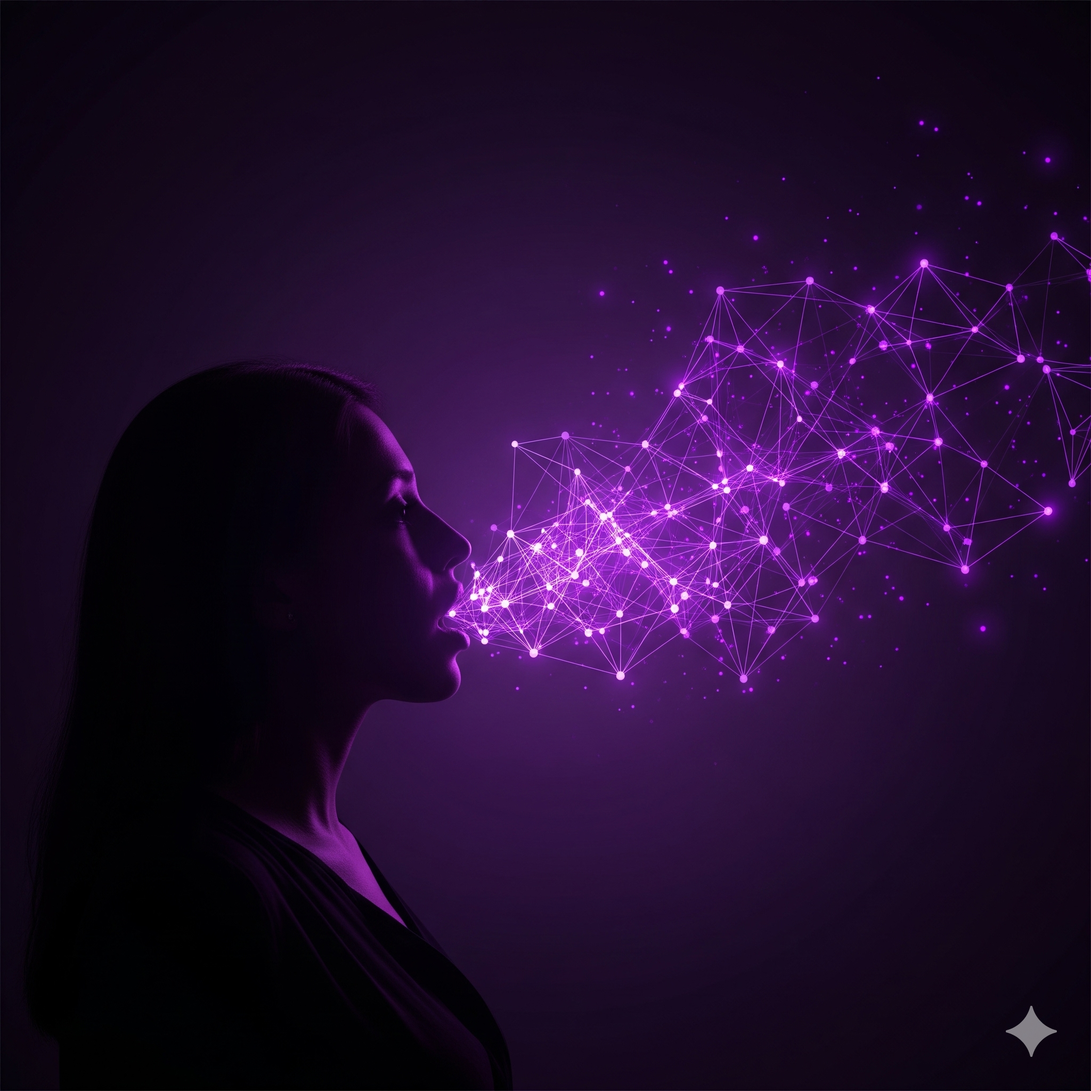
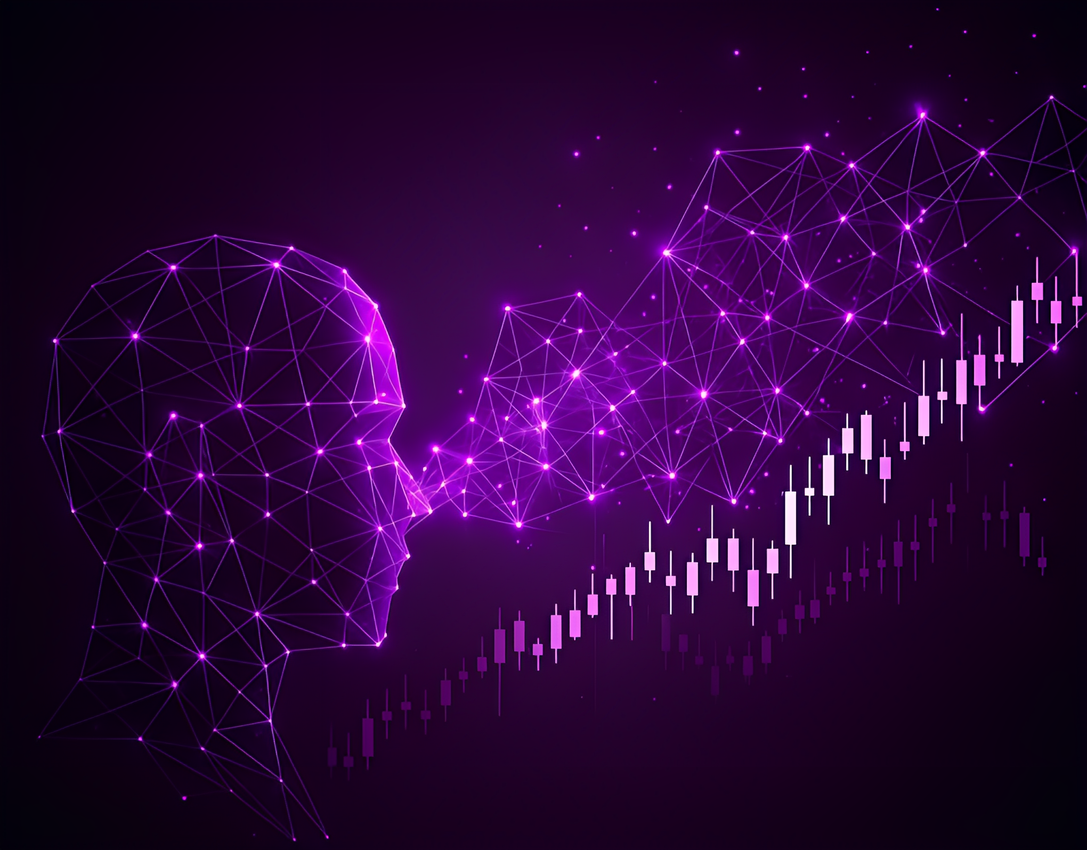
maddis comments to industries

diff --git a/industries.html b/industries.html
@@ -454,7 +454,7 @@
                             </div>
                             
                             <div class="case-study-image">
-                                <img src="assets/images/case-studies/cv.png" alt="Computer Vision for Medical Image Segmentation">
+                                <img src="assets/images/case-studies/vessel-segmentation.png" alt="Computer Vision for Medical Image Segmentation">
                             </div>
                             
                             <div class="case-study-results">
@@ -487,12 +487,13 @@
                             
                             <div class="case-study-details">
                                 <h5>Accelerate Medical Research</h5>
-                                <p style="text-align: justify;">You get ultra-fast, reliable vascular maps without the manual overhead. Whether for basic research or product-development use cases involving medical imaging, you can free up expert time, increase throughput, and improve reproducibility. Due to confidentiality reasons, we can't share the results of this project, but you can check out a similar paper below!</p>
+                                <p style="text-align: justify;">You get ultra-fast, reliable vascular maps without the manual overhead. Whether for basic research or product-development use cases involving medical imaging, you can free up expert time, increase throughput, and improve reproducibility. Due to confidentiality reasons, we can't share the results of this project, but you can check out a similar paper below where the same model was used to segment retinal blood vessels shown in the image above!</p>
                                 
+                                <!-- \
                                 <div class="case-study-image">
                                     <img src="assets/images/case-studies/segmentation.png" alt="Medical Image Segmentation with U-Net">
                                 </div>
-                                
+                                 -->
                                 <div class="paper-reference">
                                     <a href="https://www.nature.com/articles/s41598-024-84901-3" target="_blank" class="paper-button">Go to the Paper</a>
                                 </div>
@@ -560,7 +561,7 @@
                         <!-- Collapsed View -->
                         <div class="card-collapsed">
                             <div class="case-study-header">
-                                <h3 class="case-study-title" style="background: var(--gradient-primary); -webkit-background-clip: text; -webkit-text-fill-color: transparent; background-clip: text; text-align: center;">AI Agents - In-house Specialists -</h3>
+                                <h3 class="case-study-title" style="background: var(--gradient-primary); -webkit-background-clip: text; -webkit-text-fill-color: transparent; background-clip: text; text-align: center;">AI Agents for Financial Markets</h3>
                             </div>
                             
                             <div class="case-study-image">
@@ -637,7 +638,7 @@
                         
                         <!-- Expanded View -->
                         <div class="card-expanded">
-                            <p class="industry-description" style="color: black !important; text-align: justify;">Edge-based computer vision for real-time customer insights and behavior analysis. Using advanced <strong>Convolutional Neural Networks (CNNs)</strong>, we are developing a system that can identify and classify people entering a store in real time. By distinguishing between different customer groups, the solution will allow businesses to track how <strong>marketing campaigns impact foot traffic</strong> and audience engagement.</p>
+                            <p class="industry-description" style="color: black !important; text-align: justify;">Computer vision can be used for real-time customer insights and behavior analysis. Using advanced <strong>Convolutional Neural Networks (CNNs)</strong>, we are developing a system that can identify and classify people entering a store in real time. By distinguishing between different customer groups, the solution will allow businesses to track how <strong>marketing campaigns impact foot traffic</strong> and audience engagement.</p>
                             
                             <div class="case-study-overview">
                                 <h4>Object Identification for Customer Insights</h4>
@@ -688,7 +689,7 @@
                         
                         <!-- Expanded View -->
                         <div class="card-expanded">
-                            <p class="industry-description" style="color: black !important; text-align: justify;">AI-powered predictive maintenance for heavy industry and manufacturing operations. By analyzing <strong>sensor data, operational logs, and historical maintenance records</strong>, we are developing a model that will identify <strong>early warning signs</strong> that equipment may be heading toward downtime.</p>
+                            <p class="industry-description" style="color: black !important; text-align: justify;">AI-powered predictive maintenance can play a vital role for heavy industry and manufacturing operations. By analyzing <strong>sensor data, operational logs, and historical maintenance records</strong>, we are developing a model that will identify <strong>early warning signs</strong> that equipment may be heading toward downtime.</p>
                             
                             <div class="case-study-overview">
                                 <h4>Predictive Maintenance in Heavy Industry</h4>
